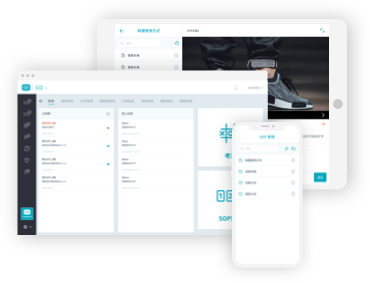
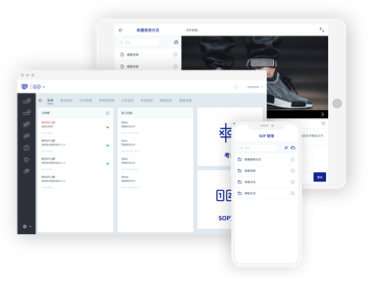
Update screenshots in teachor.html

diff --git a/jp/teachor.html b/jp/teachor.html
@@ -138,21 +138,22 @@
       </div>
 
       <section class="teachor_feature_mb">
-        <h4 class="h4_fonts pb-md-5 mb-5 text-center" data-aos="fade-in">
+        <h4 class="h4_fonts pb-md-5 mb-4 text-center" data-aos="fade-in">
           <span class="teachor_feature_title">マルチメディアの教材をサポートする</span>
         </h4>
-        <figure class="mx-auto mb-4 mb-md-5 teachor_feature_figure justify-content-center" data-aos="zoom-in">
+        <figure class="mx-auto mb-4 teachor_feature_figure justify-content-center" data-aos="zoom-in">
           <div class="row">
-            <div class="col-12 col-sm-6 mb-30px">
-              <img src="../images/teachor_screenshot_img.png" class="img-fluid feature_img_shadow">
+            <div class="col-12 col-sm-6">
+              <img src="../images/teachor_screenshot_img.png" class="img-fluid shadow_fix-teachor_screenshot_img">
             </div>
-            <div class="col-12 col-sm-6 mb-30px">
-              <img src="../images/teachor_screenshot_text.png" class="img-fluid feature_img_shadow">
+            <div class="col-12 col-sm-6">
+              <img src="../images/teachor_screenshot_text.png" class="img-fluid shadow_fix-teachor_screenshot_img">
             </div>
           </div>
         </figure>
         <p class="desc_fonts text-center" data-aos="fade-in">
-          教材の迅速作成。画像、動画、PDFファイルのアップロード以外、直接にシステムにHTML内容を編集可能
+          教材の迅速作成。画像、動画、PDFファイルのアップロード以外、
+          <br>直接にシステムにHTML内容を編集可能
         </p>
       </section>
 

diff --git a/cn/teachor.html b/cn/teachor.html
@@ -138,21 +138,22 @@
       </div>
 
       <section class="teachor_feature_mb">
-        <h4 class="h4_fonts pb-md-5 mb-5 text-center" data-aos="fade-in">
+        <h4 class="h4_fonts pb-md-5 mb-4 text-center" data-aos="fade-in">
           <span class="teachor_feature_title">支持多媒体教材</span>
         </h4>
-        <figure class="mx-auto mb-4 mb-md-5 teachor_feature_figure justify-content-center" data-aos="zoom-in">
+        <figure class="mx-auto mb-4 teachor_feature_figure justify-content-center" data-aos="zoom-in">
           <div class="row">
-            <div class="col-12 col-sm-6 mb-30px">
-              <img src="../images/teachor_screenshot_img.png" class="img-fluid feature_img_shadow">
+            <div class="col-12 col-sm-6">
+              <img src="../images/teachor_screenshot_img.png" class="img-fluid shadow_fix-teachor_screenshot_img">
             </div>
-            <div class="col-12 col-sm-6 mb-30px">
-              <img src="../images/teachor_screenshot_text.png" class="img-fluid feature_img_shadow">
+            <div class="col-12 col-sm-6">
+              <img src="../images/teachor_screenshot_text.png" class="img-fluid shadow_fix-teachor_screenshot_img">
             </div>
           </div>
         </figure>
         <p class="desc_fonts text-center" data-aos="fade-in">
-          快速进行知识创建，上传图片、影片、或现有的 PDF档案，或直接在平台上编辑HTML内容
+          快速进行知识创建，上传图片、影片、或现有的 PDF档案，
+          <br>或直接在平台上编辑HTML内容
         </p>
       </section>
 

diff --git a/teachor.html b/teachor.html
@@ -138,21 +138,22 @@
       </div>
 
       <section class="teachor_feature_mb">
-        <h4 class="h4_fonts pb-md-5 mb-5 text-center" data-aos="fade-in">
+        <h4 class="h4_fonts pb-md-5 mb-4 text-center" data-aos="fade-in">
           <span class="teachor_feature_title">支援多媒體教材</span>
         </h4>
-        <figure class="mx-auto mb-4 mb-md-5 teachor_feature_figure justify-content-center" data-aos="zoom-in">
+        <figure class="mx-auto mb-4 teachor_feature_figure justify-content-center" data-aos="zoom-in">
           <div class="row">
-            <div class="col-12 col-sm-6 mb-30px">
-              <img src="images/teachor_screenshot_img.png" class="img-fluid feature_img_shadow">
+            <div class="col-12 col-sm-6">
+              <img src="images/teachor_screenshot_img.png" class="img-fluid shadow_fix-teachor_screenshot_img">
             </div>
-            <div class="col-12 col-sm-6 mb-30px">
-              <img src="images/teachor_screenshot_text.png" class="img-fluid feature_img_shadow">
+            <div class="col-12 col-sm-6">
+              <img src="images/teachor_screenshot_text.png" class="img-fluid shadow_fix-teachor_screenshot_img">
             </div>
           </div>
         </figure>
         <p class="desc_fonts text-center" data-aos="fade-in">
-          快速進行知識創建，上傳圖片、影片、或現有的PDF檔案，或直接在平台上編輯HTML內容
+          快速進行知識創建，上傳圖片、影片、或現有的PDF檔案，
+          <br>或直接在平台上編輯HTML內容
         </p>
       </section>
 

diff --git a/en/teachor.html b/en/teachor.html
@@ -141,16 +141,16 @@
       </div>
 
       <section class="teachor_feature_mb">
-        <h4 class="h4_fonts pb-md-5 mb-5 text-center" data-aos="fade-in">
+        <h4 class="h4_fonts pb-md-5 mb-4 text-center" data-aos="fade-in">
           <span class="teachor_feature_title">Support multimedia teaching material</span>
         </h4>
-        <figure class="mx-auto mb-4 mb-md-5 teachor_feature_figure justify-content-center" data-aos="zoom-in">
+        <figure class="mx-auto mb-4 teachor_feature_figure justify-content-center" data-aos="zoom-in">
           <div class="row">
-            <div class="col-12 col-sm-6 mb-30px">
-              <img src="../images/teachor_screenshot_img.png" class="img-fluid feature_img_shadow">
+            <div class="col-12 col-sm-6">
+              <img src="../images/teachor_screenshot_img.png" class="img-fluid shadow_fix-teachor_screenshot_img">
             </div>
-            <div class="col-12 col-sm-6 mb-30px">
-              <img src="../images/teachor_screenshot_text.png" class="img-fluid feature_img_shadow">
+            <div class="col-12 col-sm-6">
+              <img src="../images/teachor_screenshot_text.png" class="img-fluid shadow_fix-teachor_screenshot_img">
             </div>
           </div>
         </figure>

diff --git a/css/app.css b/css/app.css
@@ -448,16 +448,16 @@ html, body {
   border-radius: 4px;
   overflow: hidden; }
 
-.feature_img_shadowz {
-  position: relative; }
-  .feature_img_shadowz::before {
-    content: "";
-    position: absolute;
-    top: 0;
-    left: 0;
-    width: 100%;
-    height: 100%;
-    box-shadow: 10px 5px 40px rgba(0, 0, 0, 0.25); }
+.shadow_fix-teachor_screenshot_img {
+  margin-left: -5.9%;
+  margin-right: -8.1%;
+  max-width: 114%; }
+
+.shadow_fix-teachor_screenshot_exam {
+  margin-left: -4%;
+  margin-right: -3%;
+  max-width: 107%;
+  width: 107%; }
 
 /**
  * Key Vision

diff --git a/css/app.sass b/css/app.sass
@@ -292,16 +292,16 @@ $header_menu_bottom_height: 88px
   +css3-prefix( border-radius, 4px )
   overflow: hidden
 
-.feature_img_shadowz
-  position: relative
-  &::before
-    content: ''
-    position: absolute
-    top: 0
-    left: 0
-    width: 100%
-    height: 100%
-    box-shadow: 10px 5px 40px rgba(0,0,0,0.25)
+.shadow_fix-teachor_screenshot_img
+  margin-left: -5.9%
+  margin-right: -8.1%
+  max-width: 114%
+
+.shadow_fix-teachor_screenshot_exam
+  margin-left: -4%
+  margin-right: -3%
+  max-width: 107%
+  width: 107%
 
 
 /**
